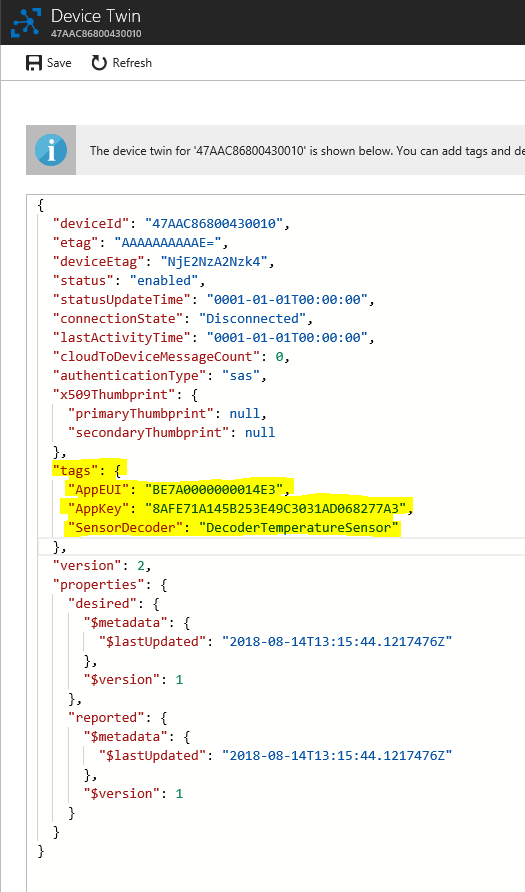
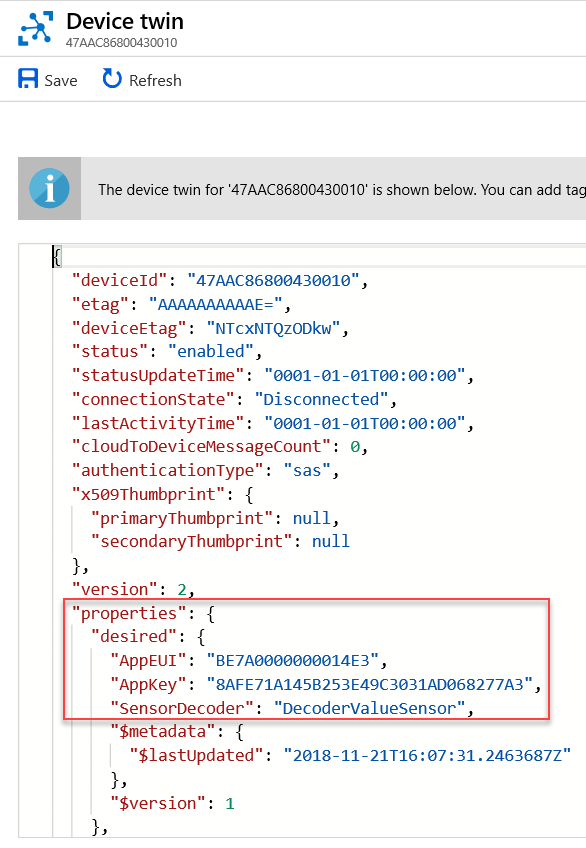
Doc updated.

diff --git a/LoRaEngine/README.md b/LoRaEngine/README.md
@@ -53,6 +53,12 @@ The following guide describes the necessary steps to build and deploy the LoRaEn
 - [Installed Azure IoT Edge](https://docs.microsoft.com/en-us/azure/iot-edge/how-to-install-iot-edge-linux-arm) on your LoRaWAN concentrator enabled edge device.
 - SetUp an Azure IoT Hub instance and be familiar with [Azure IoT Edge module deployment](https://docs.microsoft.com/en-us/azure/iot-edge/quickstart-linux) mechanism.
 - Be familiar with [Azure IoT Edge module development](https://docs.microsoft.com/en-us/azure/iot-edge/quickstart-linux). Note: the following guide expects that your modules will be pushed to [Azure Container registry](https://azure.microsoft.com/en-us/services/container-registry/).
+- Create a new IoT Edge device in you IoT Hub with a name of your choice and the default settings.
+
+### Create Redis Cache
+
+- Create a `Redis Cache` in your resource group and the region you are using with a `DNS Name` of your choice and of the size `Standard C0`. Leave all other settings unchanged.
+- Navigate to your Redis Cache and from Settings -> Access Keys, note the `Primary connection string (StackExchange.Redis)`.
 
 ### Setup Azure function facade and [Azure Container registry](https://azure.microsoft.com/en-us/services/container-registry/)
 
@@ -64,11 +70,15 @@ Copy `Connection string` with owner policy applied:
 
 ![Copy IoT Hub Connection string](/pictures/CopyIoTHubString.PNG)
 
-Now paste it into `Application settings` -> `Connection strings` as `IoTHubConnectionString`:
+Now paste it into `Application settings` -> `Connection strings` as `IoTHubConnectionString` of type `Custom`:
 
 ![Paste IoT Hub Connection string](/pictures/FunctionPasteString.PNG)
 
-- Extract Facade function `Host key` (needed in next step)
+Also, add the previously saved `Primary connection string (StackExchange.Redis)` from your Redis Cache to the `Connection strings` of your function. Use type `Custom` again.
+
+![Add Redis Cache Connection string](/pictures/FunctionRedisKey.PNG)
+
+From the Facade Azure function, extract the `Host key` of type `_master` and save it somewhere. (We will need it in the next step)
 
 ![Extract Facade function Host key](/pictures/FunctionHostKey.PNG)
 
@@ -90,7 +100,9 @@ FACADE_AUTH_CODE=yourFunctionHostKey
 
 We will use [Azure IoT Edge for Visual Studio Code](https://marketplace.visualstudio.com/items?itemName=vsciot-vscode.azure-iot-edge) extension to build, push and deploy our solution.
 
-First, build an push the solution by right click [deployment.template.json](/LoRaEngine/deployment.template.json) and select `Build and Push IoT Edge Solution` (look as alternative into [deployment.template.amd64.json](/LoRaEngine/deployment.template.amd64.json) for x64 based gateways)
+Make sure you are logged in to the Azure Container Registry you are using. Run `docker login <mycontainerregistry>.azurecr.io` on your development machine.
+
+Now, build an push the solution by right clicking [deployment.template.json](/LoRaEngine/deployment.template.json) and select `Build and Push IoT Edge Solution` (look as alternative into [deployment.template.amd64.json](/LoRaEngine/deployment.template.amd64.json) for x64 based gateways)
 
 ![VSCode: Build and push edge solution](/pictures/CreateEdgeSolution.PNG)
 
@@ -125,7 +137,7 @@ Device Id: `47AAC86800430010` and Device Twin's deired properties:
 "desired": {
   "AppEUI": "BE7A0000000014E3",
   "AppKey": "8AFE71A145B253E49C3031AD068277A3",
-  "SensorDecoder": "DecoderTemperatureSensor"
+  "SensorDecoder": "DecoderValueSensor"
 }
 ```
 
